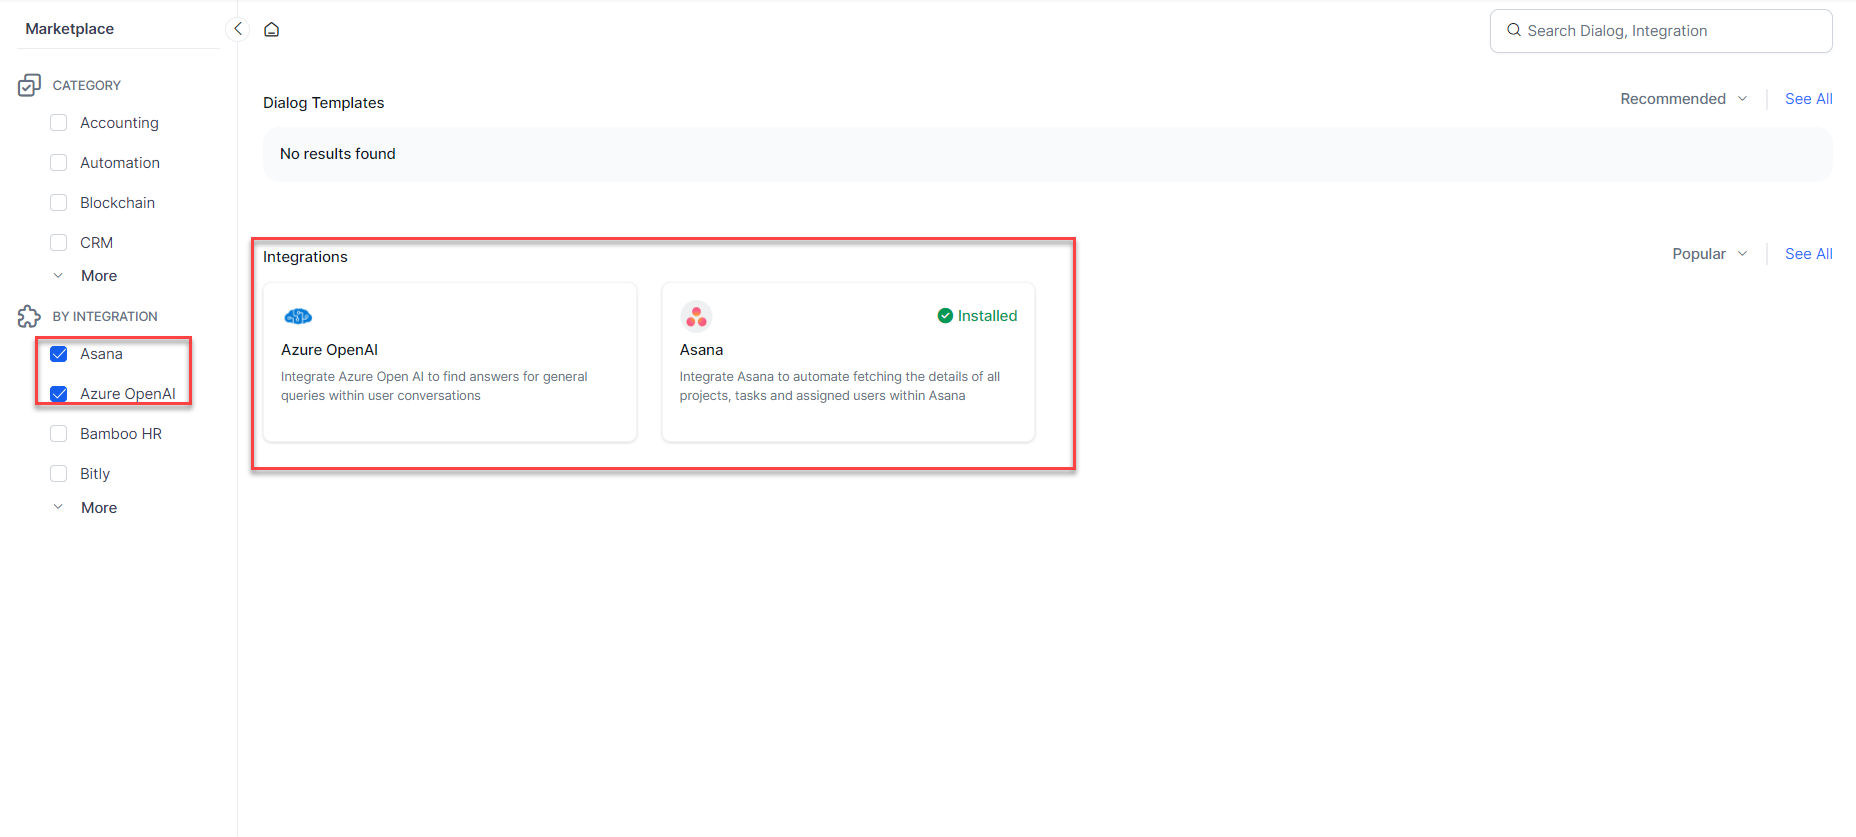
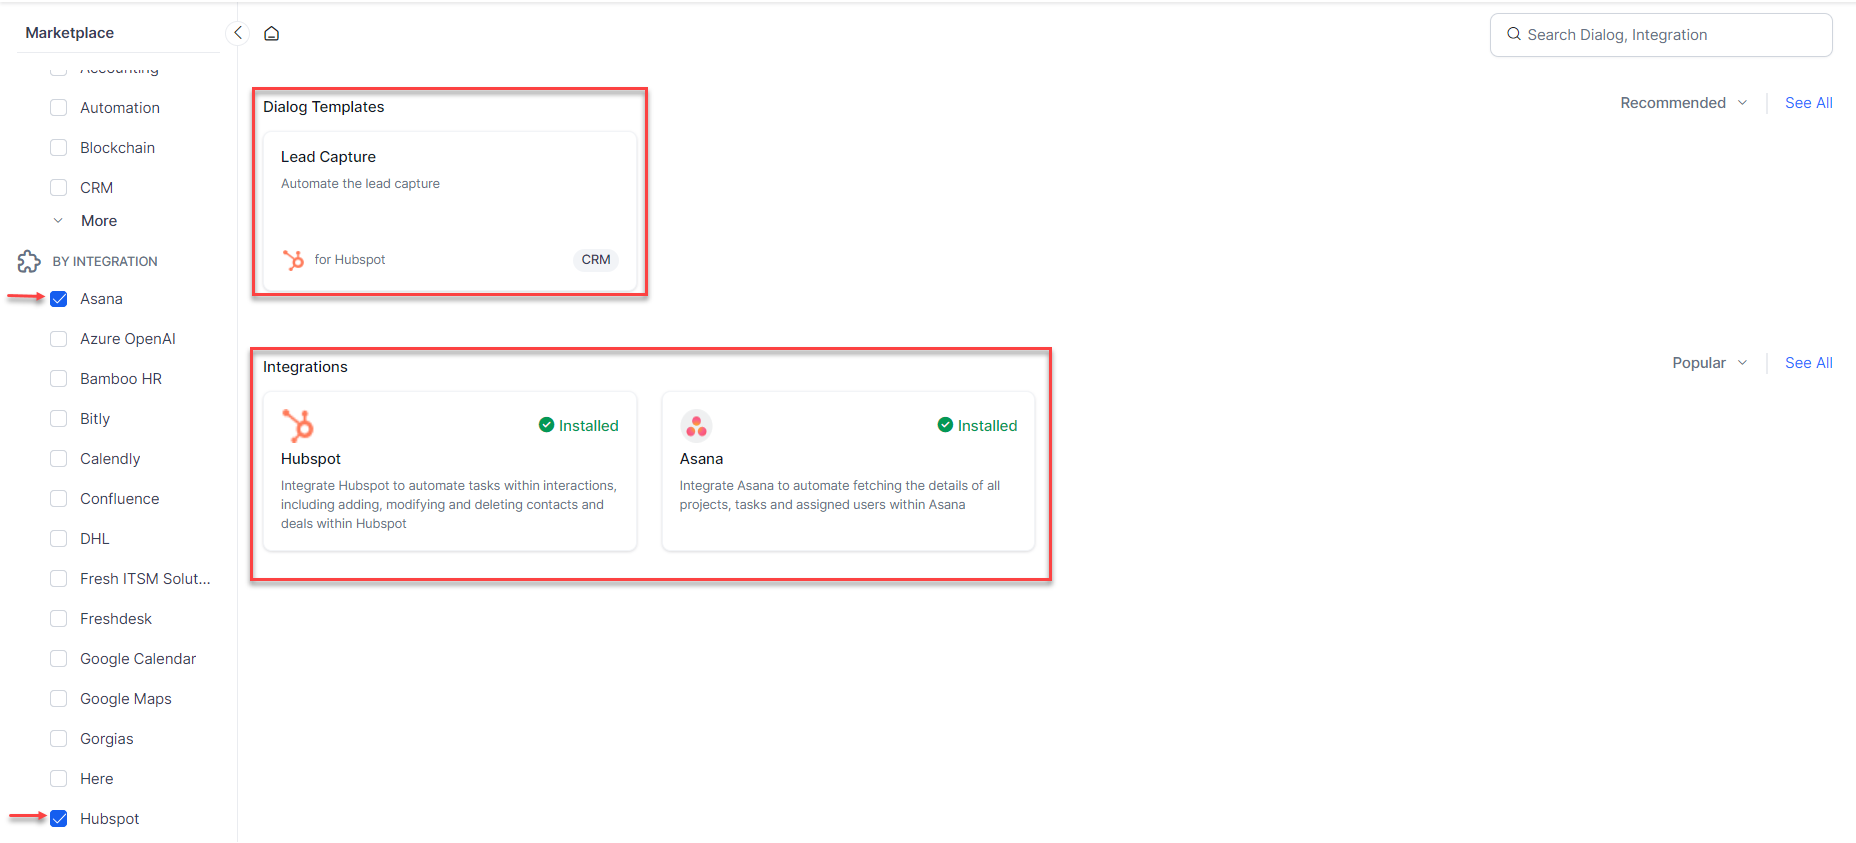
bot sessions

diff --git a/docs/xo/automation/use-cases/dialogs/using-the-dialog-builder-tool.md b/docs/xo/automation/use-cases/dialogs/using-the-dialog-builder-tool.md
@@ -10,9 +10,9 @@ To create a dialog task, you must have already created an assistant to add a dia
 To add a dialog task, follow the steps below:
 
 1. Open the assistant for which you want to create the dialog task.
-2. Click the Automation icon on the left menu.
-3. The Automation menu opens, and the Dialogs page is open by default.
-4. On the Dialogs page, click the Create Dialog button.
+2. Click the **Automation** icon on the left menu.
+3. The Automation menu opens, and the **Dialogs** page is open by default.
+4. On the Dialogs page, click the **Create Dialog** button.
 
     <img src="../images/using-dialog-builder-img1-create-dialog.png" alt="Dialogs" title="Dialogs" style="border:1px solid gray;zoom:60%;">
 
@@ -83,13 +83,13 @@ The nodes and the flow for the Business Logic are automatically built for your c
  
 <img src="../images/using-dialog-builder-img10-create-dialog-genai-dialog-created.png" alt="Gen Ai Dialog created" title="Gen Ai Dialog created" style="border:1px solid gray;zoom:60%;">
 
-### Auto-Generate Dialog Tasks using Pre Built Templates (Draft)
+### Auto-Generate Dialog Tasks using Pre Built Templates (Marketplace)
 
-This option provides you ready-made templates targeting major industry verticals, covering generic use cases related to the industry, and having pre-established integration, and lets you choose a suitable dialog template. You can update the description and generate use cases based on the purpose. This option accelerates development by providing a starting point for common scenarios, ensuring consistency and efficiency. 
+This option provides you ready-made templates targeting major industry verticals, covering generic use cases related to the industry, having pre-established integration, and lets you choose a suitable dialog template. You can update the description and generate use cases based on the purpose. This option accelerates development by providing a starting point for common scenarios, ensuring consistency and efficiency. 
  
-~~1. Click the **Marketplace** option. The **Marketplace** page opens with lists of categories and integrations.~~
+1. Click the **Marketplace** option. The **Marketplace** page opens with lists of categories and integrations.
 
-    ~~<img src="../images/using-dialog-builder-img11-create-dialog-template-search.gif" alt="Template search" title="Template search" style="border:1px solid gray;zoom:60%;">~~
+    <img src="../images/using-dialog-builder-img11-create-dialog-template-search.gif" alt="Template search" title="Template search" style="border:1px solid gray;zoom:60%;">
 
 ~~2. Select the required categories or integrations. The integrations appear in the **Integrations** section.~~
  

diff --git a/docs/xo/app-settings/advanced-settings/bot-sessions.md b/docs/xo/app-settings/advanced-settings/bot-sessions.md
@@ -79,9 +79,23 @@ Conversation Sessions are created for all interactions:
 **When does a Conversation Session close?**
 
 * The platform proactively closes inactive sessions after the specified time of inactivity set in the [Manage Sessions ](#manage-sessions)option.
-* When the following utterances are detected – _“Discard”_
 * When the chat window is refreshed ie _“refresh: true”_ is detected.
 
+!!! Note
+
+    Discard and Discard all commands only stop the ongoing chat and do not end the Conversation Session.
+
+    For discard all:
+
+    * The Dialog context, Current and Historic Tags are cleared;
+    * The Sentiment Tones are reset
+
+    For discard:
+
+    * The current Dialog context will be cleared;
+    * The Current Tags will be replaced with the last updated ‘tags’ in the Historic Tags, and the Historic Tags would be cleared
+
+    
 **What happens when a Conversation Session closes?**
 
 * Post-session closure, the following information or variables will be cleared:
@@ -93,12 +107,3 @@ Conversation Sessions are created for all interactions:
 * For “_refresh: true_”:
     * Complete session information is cleared;
     * A new conversation session is created.
-
-* For “_discard all_”
-    * The Dialog context, Current and Historic Tags are cleared;
-    * The Sentiment Tones are reset;
-    * The same Conversation Session will be continued
-
-* For “_discard_”
-    * The current Dialog context will be cleared;
-    * The Current Tags will be replaced with the last updated ‘tags’ in the Historic Tags, and the Historic Tags would be cleared.
